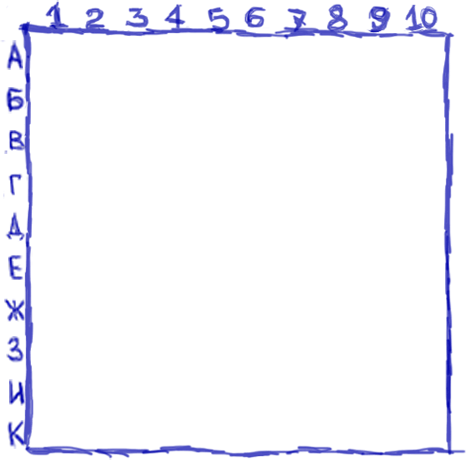
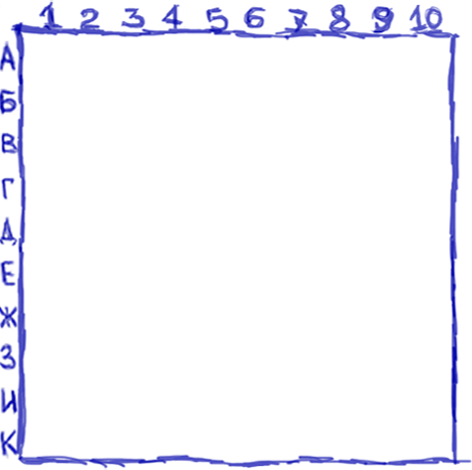
изменены изображения полей и метод их отрисовки

diff --git a/Sea_Battle/Properties/Resources.Designer.cs b/Sea_Battle/Properties/Resources.Designer.cs
@@ -83,16 +83,6 @@ namespace Sea_Battle.Properties {
         /// <summary>
         ///   Поиск локализованного ресурса типа System.Drawing.Bitmap.
         /// </summary>
-        internal static System.Drawing.Bitmap bg_clear_2 {
-            get {
-                object obj = ResourceManager.GetObject("bg_clear_2", resourceCulture);
-                return ((System.Drawing.Bitmap)(obj));
-            }
-        }
-        
-        /// <summary>
-        ///   Поиск локализованного ресурса типа System.Drawing.Bitmap.
-        /// </summary>
         internal static System.Drawing.Bitmap boat {
             get {
                 object obj = ResourceManager.GetObject("boat", resourceCulture);
@@ -243,16 +233,6 @@ namespace Sea_Battle.Properties {
         /// <summary>
         ///   Поиск локализованного ресурса типа System.Drawing.Bitmap.
         /// </summary>
-        internal static System.Drawing.Bitmap one_field {
-            get {
-                object obj = ResourceManager.GetObject("one_field", resourceCulture);
-                return ((System.Drawing.Bitmap)(obj));
-            }
-        }
-        
-        /// <summary>
-        ///   Поиск локализованного ресурса типа System.Drawing.Bitmap.
-        /// </summary>
         internal static System.Drawing.Bitmap player_shoots {
             get {
                 object obj = ResourceManager.GetObject("player_shoots", resourceCulture);
@@ -306,16 +286,6 @@ namespace Sea_Battle.Properties {
         internal static System.Drawing.Bitmap ship_plane_2 {
             get {
                 object obj = ResourceManager.GetObject("ship_plane_2", resourceCulture);
-                return ((System.Drawing.Bitmap)(obj));
-            }
-        }
-        
-        /// <summary>
-        ///   Поиск локализованного ресурса типа System.Drawing.Bitmap.
-        /// </summary>
-        internal static System.Drawing.Bitmap two_field {
-            get {
-                object obj = ResourceManager.GetObject("two_field", resourceCulture);
                 return ((System.Drawing.Bitmap)(obj));
             }
         }

diff --git a/Sea_Battle/MainForm.cs b/Sea_Battle/MainForm.cs
@@ -20,7 +20,7 @@ namespace Sea_Battle
             InitializeComponent();
 
             SetStyle(ControlStyles.OptimizedDoubleBuffer | ControlStyles.UserPaint | ControlStyles.AllPaintingInWmPaint, true);
-            this.BackgroundImage = new Bitmap(Properties.Resources.bg_clear_2);
+            this.BackgroundImage = new Bitmap(Properties.Resources.bg_clear);
 
 
             _playerFleet = new CreateFleetOfShips(this);
@@ -41,6 +41,8 @@ namespace Sea_Battle
             _battle = new Battle(this, _playerFleet, _playerField, _enemyFleet, _enemyField, _drawImage);
             _drawImage.FinishRocketAnimationEvent += _battle.StartEnemyShoots;
             _drawImage.FinishExplosionAnimationEvent += _battle.RepeatedShoot;
+            _drawImage.InitializeStructPicture(new Point(1, 109), new Bitmap(Properties.Resources.left_field));
+            _drawImage.AddImageToList();
 
             _embededFont = new EmbededFont();
 
@@ -121,7 +123,7 @@ namespace Sea_Battle
         }
         private void ChangeBG()
         {
-            this.BackgroundImage = new Bitmap(Properties.Resources.two_field);
+            //this.BackgroundImage = new Bitmap(Properties.Resources.two_field);
         }
         public void HideButtons()
         {
@@ -139,7 +141,9 @@ namespace Sea_Battle
             _enemyShipsPosition.SetShipOnField();
             _enemyShipsPosition.SetImageShipOnField();
 
-            ChangeBG();
+            _drawImage.InitializeStructPicture(new Point(520, 109), new Bitmap(Properties.Resources.right_field));
+            _drawImage.AddImageToList();
+
             HideButtons();
 
             _drawImage.AddPlayerShipsToList(_playerFleet, _playerField);

diff --git a/Sea_Battle/DrawImage.cs b/Sea_Battle/DrawImage.cs
@@ -103,17 +103,8 @@ namespace Sea_Battle
             foreach (var item in _drawPicture)
             {
                 Graphics g = e.Graphics;
-                g.DrawImage(item.image, item.point);
+                g.DrawImage(item.image, item.point.X, item.point.Y, item.image.Width, item.image.Height);
             }
-
-            //if (_tempDrawPictureCross.Count > 0)
-            //{
-            //    foreach (var item in _tempDrawPictureCross)
-            //    {
-            //        Graphics g = e.Graphics;
-            //        g.DrawImage(item.image, item.point);
-            //    }
-            //}
         }
         public void AddPlayerShipsToList(CreateFleetOfShips fleet, CreatePlayingField field)
         {
@@ -189,14 +180,9 @@ namespace Sea_Battle
             _deleteExplosionAnimation.Interval = 1050;
             _deleteExplosionAnimation.Start();
         }
-        private void InitializeStructPicture(Point point, Bitmap bitmap)
+        public void InitializeStructPicture(Point point, Bitmap bitmap)
         {
             _picture.image = bitmap;
-            _picture.point = point;
-        }
-        private void SetImageRedCross(Point point)
-        {
-            _picture.image = new Bitmap(Properties.Resources.red_cross);
             _picture.point = point;
         }
         // координата изображения на поле увеличанная по X и Y
